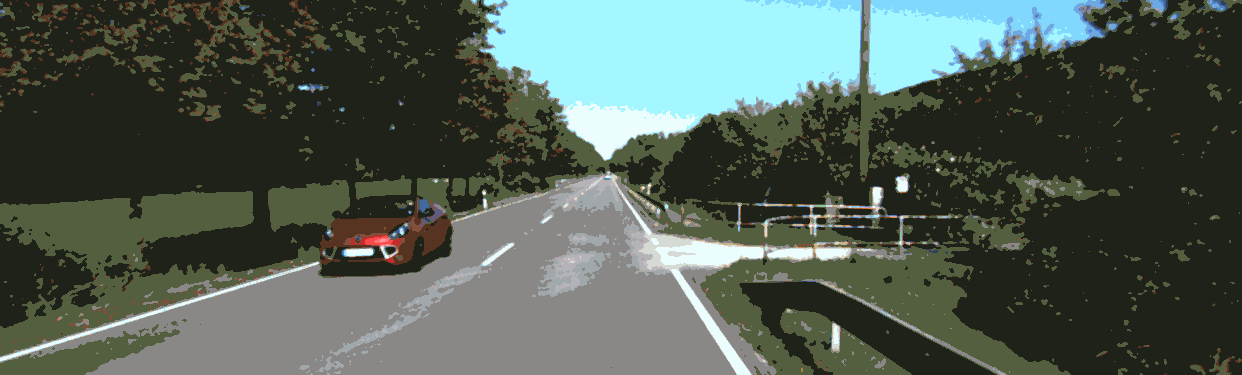
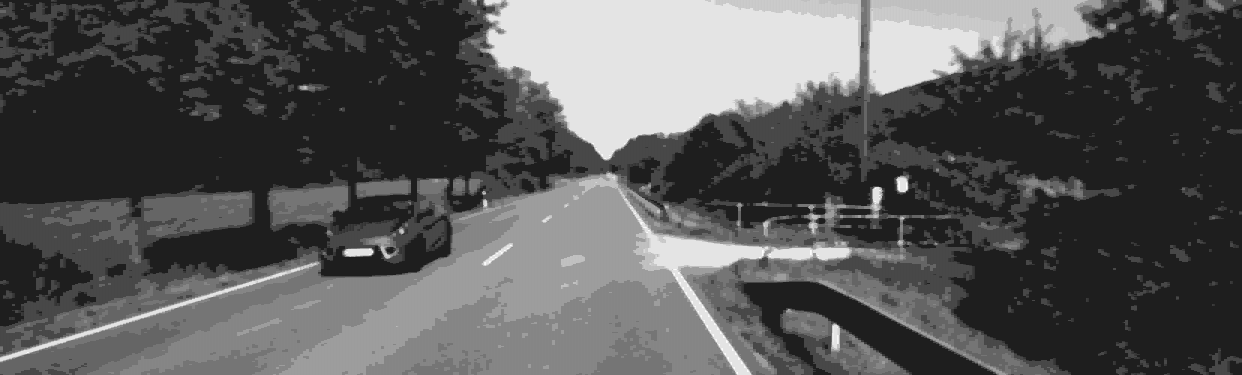
update functions

diff --git a/scikit-learn_mean_shift_segmentation.py b/scikit-learn_mean_shift_segmentation.py
@@ -2,9 +2,12 @@ from sklearn.cluster import MeanShift, estimate_bandwidth
 import numpy as np
 import cv2
 
-original_image = cv2.imread("right_img.png")
-blurimg = cv2.medianBlur(original_image, 3)
-# bgrimg = cv2.cvtColor(original_image, cv2.COLOR_BGR2GRAY)
+original_image = cv2.imread("left_img.png")
+
+original_image = cv2.cvtColor(original_image, cv2.COLOR_BGR2GRAY)
+
+blurimg = cv2.medianBlur(original_image, 5)
+
 flat_image = blurimg.reshape((-1,3))
 flat_image = np.float32(flat_image) 
 bandwidth = estimate_bandwidth(flat_image, quantile=.06, n_samples=3000)
@@ -28,7 +31,42 @@ avg = np.uint8(avg)
 
 # cast the labeled image into the corresponding average color
 res = avg[labeled]
-result = res.reshape((blurimg.shape))
+result = res.reshape((original_image.shape))
+
+cv2.imshow('result',result)
+cv2.imwrite("left_image.png",result)
+cv2.waitKey(0)
+cv2.destroyAllWindows()
+
+
+original_image = cv2.imread("right_img.png")
+
+original_image = cv2.cvtColor(original_image, cv2.COLOR_BGR2GRAY)
+blurimg = cv2.medianBlur(original_image, 5)
+flat_image = blurimg.reshape((-1,3))
+flat_image = np.float32(flat_image) 
+bandwidth = estimate_bandwidth(flat_image, quantile=.06, n_samples=3000)
+ms = MeanShift(bandwidth=bandwidth, max_iter=800, bin_seeding=True)
+ms.fit(flat_image)
+labeled = ms.labels_
+
+segments = np.unique(labeled)
+print('Number of segments: ', segments.shape[0])
+print("cluster centroids", ms.cluster_centers_)
+print("length of centroid matrix", len(ms.cluster_centers_))
+
+# get the average color of each segment
+total = np.zeros((segments.shape[0], 3), dtype=float)
+count = np.zeros(total.shape, dtype=float)
+for i, label in enumerate(labeled):
+    total[label] = total[label] + flat_image[i]
+    count[label] += 1
+avg = total/count
+avg = np.uint8(avg)
+
+# cast the labeled image into the corresponding average color
+res = avg[labeled]
+result = res.reshape((original_image.shape))
 
 cv2.imshow('result',result)
 cv2.imwrite("right_image.png",result)
